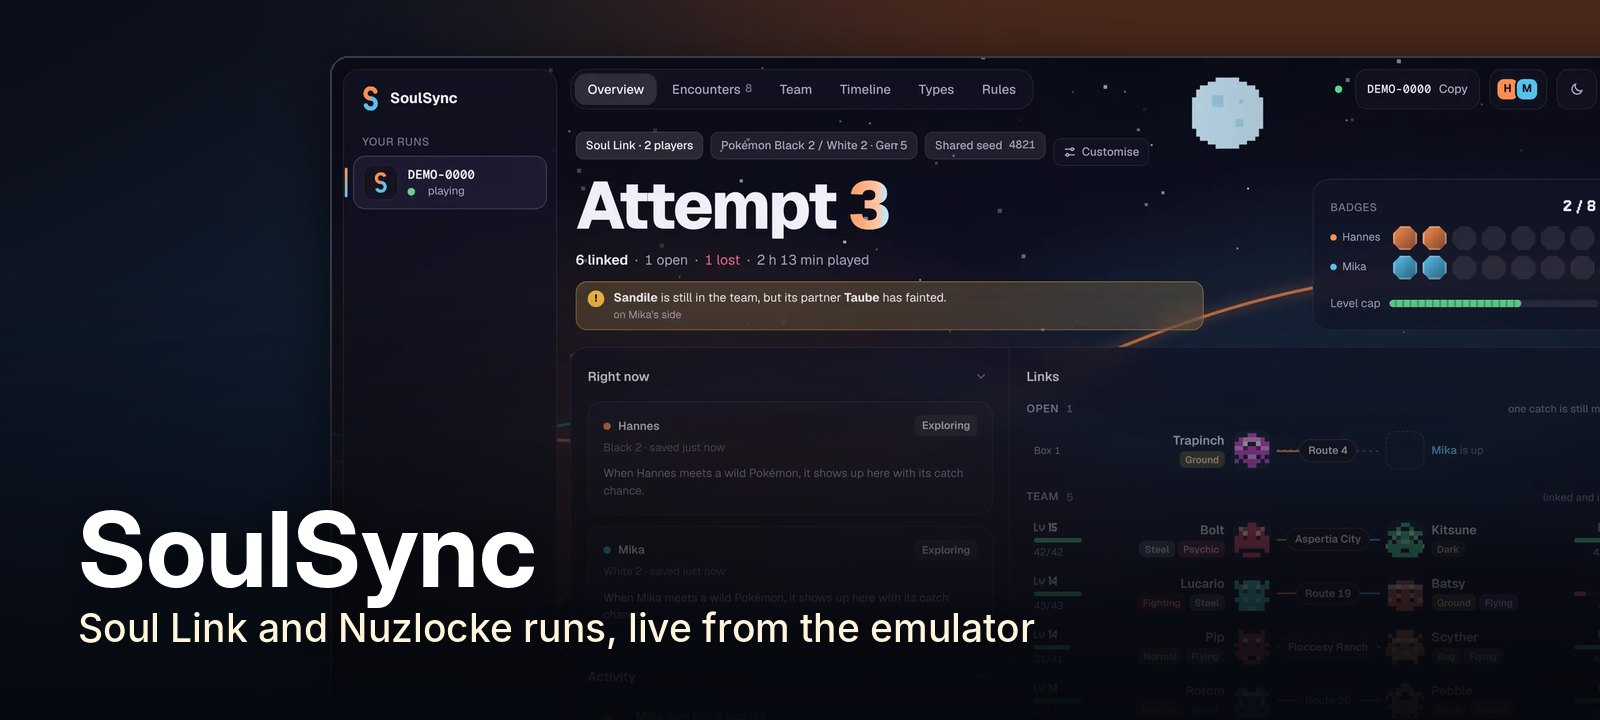
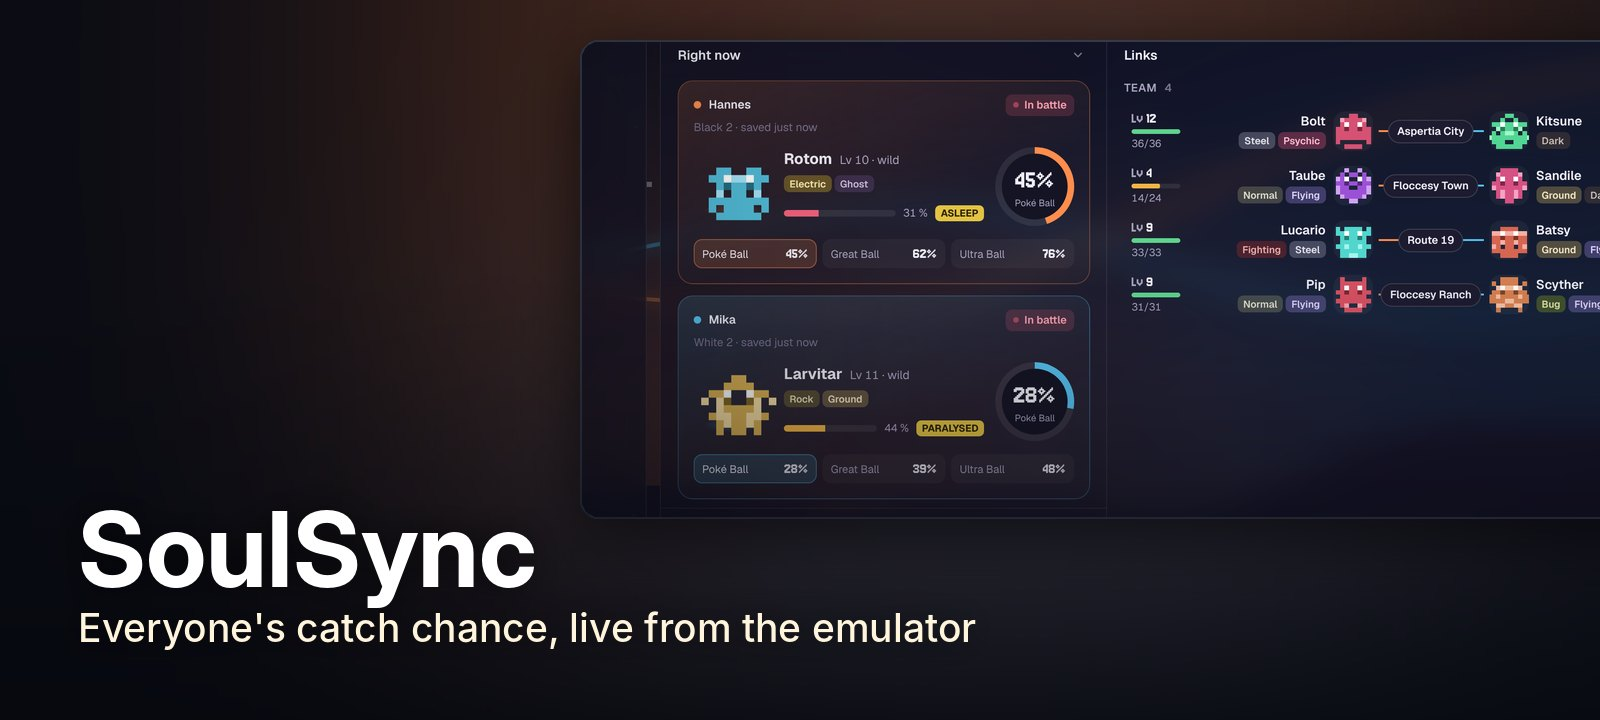
SoulSync cover: both players' catch chances in a wild battle
Claude-Session: https://claude.ai/code/session_01Jh5A2TRcuh3f4j5kpcRAWV

diff --git a/README.md b/README.md
@@ -8,7 +8,7 @@ infrastructure and hardware.
 ## Projects
 
 
-<a href="https://github.com/hildlabs/SoulSync"><img src="assets/covers/soulsync.jpg" width="100%" alt="The SoulSync dashboard in dark mode: two players' linked Pokémon side by side, with badges and level cap"></a>
+<a href="https://github.com/hildlabs/SoulSync"><img src="assets/covers/soulsync.jpg" width="100%" alt="The SoulSync dashboard in a wild battle: both players' catch chances live, next to their linked Pokémon"></a>
 
 <h3><a href="https://github.com/hildlabs/SoulSync">SoulSync</a> <sub><sup>DESKTOP APP</sup></sub></h3>
 
